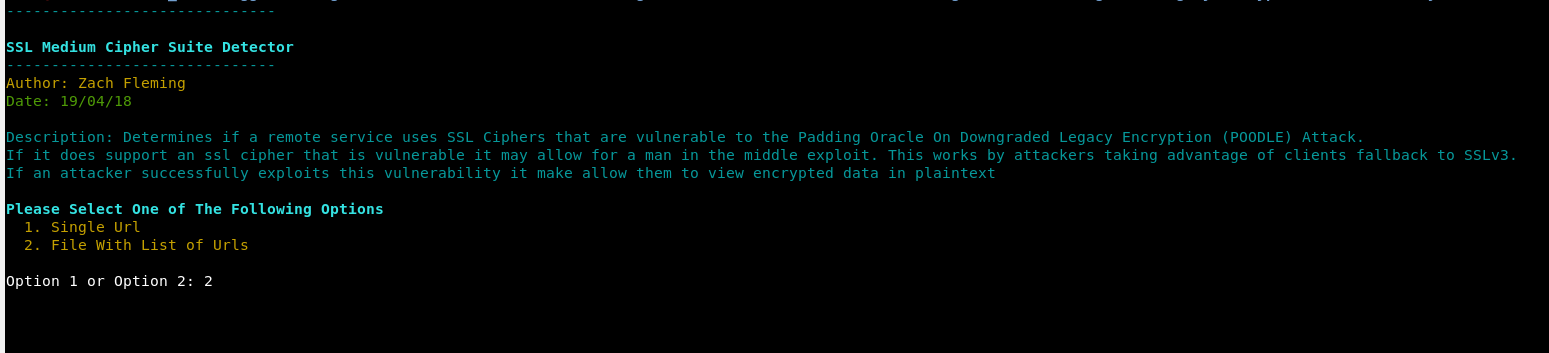
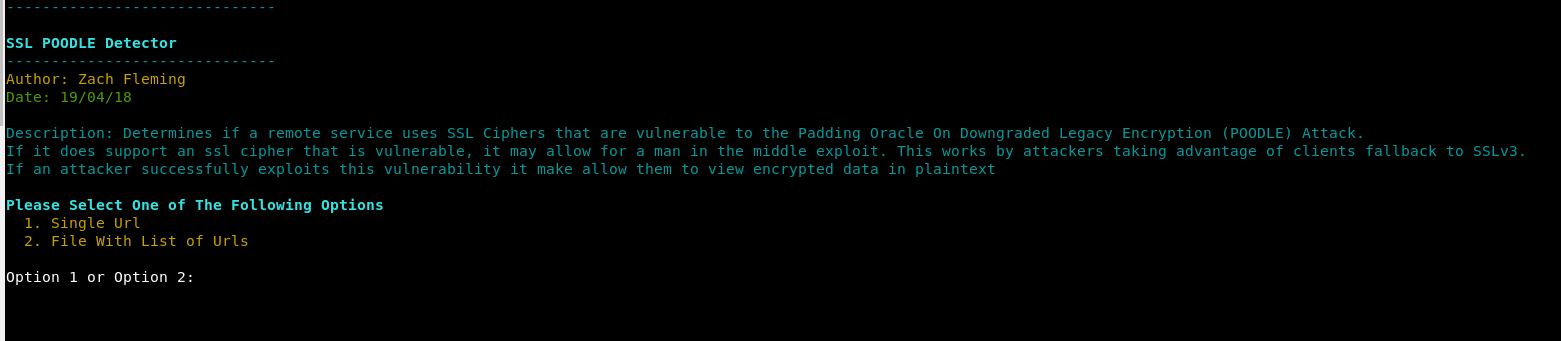
Updated Readme Files

diff --git a/Vulnerabilties/SSL Cert Signed Using Weak Hash Algorithim/ssl_cert_signed_using_weak_hash_algo.py b/Vulnerabilties/SSL Cert Signed Using Weak Hash Algorithim/ssl_cert_signed_using_weak_hash_algo.py
@@ -104,7 +104,7 @@ def main():
 	
 	# Display tool info to the user
 	print colored(30 * "-", 'cyan')
-	print colored("\nSSL Certificate Expiry Detector", 'cyan',  attrs=['bold'])
+	print colored("\nSSL Certificate Weak Hash Detector", 'cyan',  attrs=['bold'])
 	print colored(30 * "-", 'cyan')
 	print colored("Author: Zach Fleming", 'yellow')
 	print colored("Date: 09/04/18", 'green')

diff --git a/Vulnerabilties/SSL Padding Oracle On Downgraded Legacy Encryption Vulnerability (POODLE)/ssl_poodle.py b/Vulnerabilties/SSL Padding Oracle On Downgraded Legacy Encryption Vulnerability (POODLE)/ssl_poodle.py
@@ -104,7 +104,7 @@ def main():
 	
 	# Display tool info to the user
 	print colored(30 * "-", 'cyan')
-	print colored("\nSSL Medium Cipher Suite Detector", 'cyan',  attrs=['bold'])
+	print colored("\nSSL POODLE Detector", 'cyan',  attrs=['bold'])
 	print colored(30 * "-", 'cyan')
 	print colored("Author: Zach Fleming", 'yellow')
 	print colored("Date: 19/04/18", 'green')

diff --git a/Vulnerabilties/SSL Medium Strength Ciphers Supported/README.md b/Vulnerabilties/SSL Medium Strength Ciphers Supported/README.md
@@ -6,7 +6,7 @@ Tool to check if a target site supports ssl medium strength cipher suites.
 
 ### What Is this important
 
-If a remote service uses SSL Ciphers that offeer medium strength encryption. Standard assumption for medium strength ciphers is any that uses key lengths at least 56 bits and less than 112 bits, or else that uses the 3DES encryption suite. If an attacker is on the same physical network as this service, it is considerably eeasier to bypass medium strength cipher suites
+If a remote service uses SSL Ciphers that offeer medium strength encryption. Standard assumption for medium strength ciphers is any that uses key lengths at least 56 bits and less than 112 bits, or else that uses the 3DES encryption suite. If an attacker is on the same physical network as this service, it is considerably easier to bypass medium strength cipher suites
 
 ### Launching the program
 
@@ -16,9 +16,10 @@ To use the program simply open up a terminal navigate to the directory and run i
 
 The program has two options. It can either can a single url, or a list of target urls. 
 To scan a single url you must include the full url and port number. For example https://www.samplesite.com:443
-To scan a text file containg urls, the file must be formatted as follows. Each url must be on a new line and with the following format https://www.samplesite.com:443. A sample text file ahs been included also. 
+To scan a text file containg urls, the file must be formatted as follows. Each url must be on a new line and with the following format https://www.samplesite.com:443. 
+A sample text file has been included also. 
 
-The logic behind the porgram is that it will connect to a given url with a vulnerable 64 bit cipher. If the connection is successful then it is assumed that the target is vulnerable. If it is unsuccessful then it is assumed that it's not.
+
 
 ### Screenshots
 ![alt text](screenshots/ssl_medium_strength_overview.png "Overview of Program")

diff --git a/Vulnerabilties/SSL Cert Signed Using Weak Hash Algorithim/README.md b/Vulnerabilties/SSL Cert Signed Using Weak Hash Algorithim/README.md
@@ -4,7 +4,7 @@
 
 Tool to check if a target sites ssl certificate are signed using a weak hashing algorithim.
 
-### What Is THis Important
+### What Is This Important
 
 If a remote service uses an SSL certificate chain that has been signed using a cryptographically weak hashing algorithm, it may allow a hacker to forge there certificate. These signature algorithms are known to be vulnerable to collision attacks. Meaning an attacker can exploit this to generate another certificate with the same digital signature, allowing an attacker to masquerade as the affected service
 
@@ -17,7 +17,8 @@ To use the program simply open up a terminal navigate to the directory and run i
 
 The program has two options. It can either can a single url, or a list of target urls. 
 To scan a single url you must include the full url and port number. For example https://www.samplesite.com:443
-To scan a text file containg urls, the file must be formatted as follows. Each url must be on a new line and with the following format https://www.samplesite.com:443. A sample text file ahs been included also. 
+To scan a text file containg urls, the file must be formatted as follows. Each url must be on a new line and with the following format https://www.samplesite.com:443. 
+A sample text file ahs been included also. 
 
 The logic behind the porgram is that it will connect to a given url with a vulnerable 64 bit cipher. If the connection is successful then it is assumed that the target is vulnerable. If it is unsuccessful then it is assumed that it's not.
 

diff --git a/Vulnerabilties/SSL Certificate Expiring Soon/README.md b/Vulnerabilties/SSL Certificate Expiring Soon/README.md
@@ -4,7 +4,7 @@
 
 Tool to check if a target sites ssl certificate expires anytime within the next 6 months.
 
-### What Is THis Important
+### What Is This Important
 
 If the SSL certificate expires and is not renewed, it may result in a dos for users
 
@@ -16,9 +16,8 @@ To use the program simply open up a terminal navigate to the directory and run i
 
 The program has two options. It can either can a single url, or a list of target urls. 
 To scan a single url you must include the full url and port number. For example https://www.samplesite.com:443
-To scan a text file containg urls, the file must be formatted as follows. Each url must be on a new line and with the following format https://www.samplesite.com:443. A sample text file ahs been included also. 
-
-The logic behind the porgram is that it will connect to a given url with a vulnerable 64 bit cipher. If the connection is successful then it is assumed that the target is vulnerable. If it is unsuccessful then it is assumed that it's not.
+To scan a text file containg urls, the file must be formatted as follows. Each url must be on a new line and with the following format https://www.samplesite.com:443. 
+A sample text file ahs been included also. 
 
 ### Screenshots
 ![alt text](screenshots/SSL_expiry_overview.png "Overview of Program")

diff --git a/Vulnerabilties/Cacheable HTTPS Response/README.md b/Vulnerabilties/Cacheable HTTPS Response/README.md
@@ -16,12 +16,14 @@ To use the program simply open up a terminal and run it with "python cacheable_h
 
 The program has two options. It can either can a single url, or a list of target urls. 
 To scan a single url you must include the full url and port number. For example https://www.samplesite.com:443
-To scan a text file containg urls, the file must be formatted as follows. Each url must be on a new line and with the following format https://www.samplesite.com:443. A sample text file ahs been included also. 
+To scan a text file containg urls, the file must be formatted as follows. Each url must be on a new line and with the following format https://www.samplesite.com:443. 
+A sample text file ahs been included also. 
 
 The logic behind the porgram is that it will connect to a given url and check the repsone headers to see if they contain the cache-control: no-store header and the pragma:no-cache header. If both of these are vulnerable then the url is configured correctly and is not vulnerable to cacheable https repsonse attacks. If these headers are not present then it is assumed that they are. 
 
 ### Screenshots
 ![alt text](screenshots/Cacheable_HTTPS_Overview.png "Overview of Program")
+
 ![alt text](screenshots/Cacheable_HTTPS_Output.png "Sample Output")
 
 

diff --git a/Vulnerabilties/SSL Logjam Attack/README.md b/Vulnerabilties/SSL Logjam Attack/README.md
@@ -17,9 +17,10 @@ To use the program simply open up a terminal navigate to the directory and run i
 
 The program has two options. It can either can a single url, or a list of target urls. 
 To scan a single url you must include the full url and port number. For example https://www.samplesite.com:443
-To scan a text file containg urls, the file must be formatted as follows. Each url must be on a new line and with the following format https://www.samplesite.com:443. A sample text file ahs been included also. 
+To scan a text file containg urls, the file must be formatted as follows. Each url must be on a new line and with the following format https://www.samplesite.com:443. 
+A sample text file ahs been included also. 
 
-The logic behind the porgram is that it will connect to a given url with a vulnerable 64 bit cipher. If the connection is successful then it is assumed that the target is vulnerable. If it is unsuccessful then it is assumed that it's not.
+
 
 ### Screenshots
 ![alt text](screenshots/logjam_overview.png "Overview of Program")

diff --git a/Vulnerabilties/SSL Padding Oracle On Downgraded Legacy Encryption Vulnerability (POODLE)/README.md b/Vulnerabilties/SSL Padding Oracle On Downgraded Legacy Encryption Vulnerability (POODLE)/README.md
@@ -11,13 +11,15 @@ If a remote service uses SSL Ciphers that are vulnerable to the Padding Oracle O
 
 ### Launching the program
 
-To use the program simply open up a terminal navigate to the directory and run it with "./ssl_medium_cipher_suites.py"
+To use the program simply open up a terminal navigate to the directory and run it with "./ssl_poodle.py"
 
 ### How To / Program Features
 
 The program has two options. It can either can a single url, or a list of target urls. 
 To scan a single url you must include the full url and port number. For example https://www.samplesite.com:443
-To scan a text file containg urls, the file must be formatted as follows. Each url must be on a new line and with the following format https://www.samplesite.com:443. A sample text file ahs been included also. 
+
+To scan a text file containg urls, the file must be formatted as follows. Each url must be on a new line and with the following format https://www.samplesite.com:443. 
+A sample text file has been included also. 
 
 
 ### Screenshots

diff --git a/Vulnerabilties/SSL_64 bit Block Size Cipher Suites Supported (SWEET32)/README.md b/Vulnerabilties/SSL_64 bit Block Size Cipher Suites Supported (SWEET32)/README.md
@@ -16,7 +16,8 @@ To use the program simply open up a terminal navigate to the directory and run i
 
 The program has two options. It can either can a single url, or a list of target urls. 
 To scan a single url you must include the full url and port number. For example https://www.samplesite.com:443
-To scan a text file containg urls, the file must be formatted as follows. Each url must be on a new line and with the following format https://www.samplesite.com:443. A sample text file ahs been included also. 
+To scan a text file containg urls, the file must be formatted as follows. Each url must be on a new line and with the following format https://www.samplesite.com:443. 
+A sample text file has been included also. 
 
 The logic behind the porgram is that it will connect to a given url with a vulnerable 64 bit cipher. If the connection is successful then it is assumed that the target is vulnerable. If it is unsuccessful then it is assumed that it's not.
 
